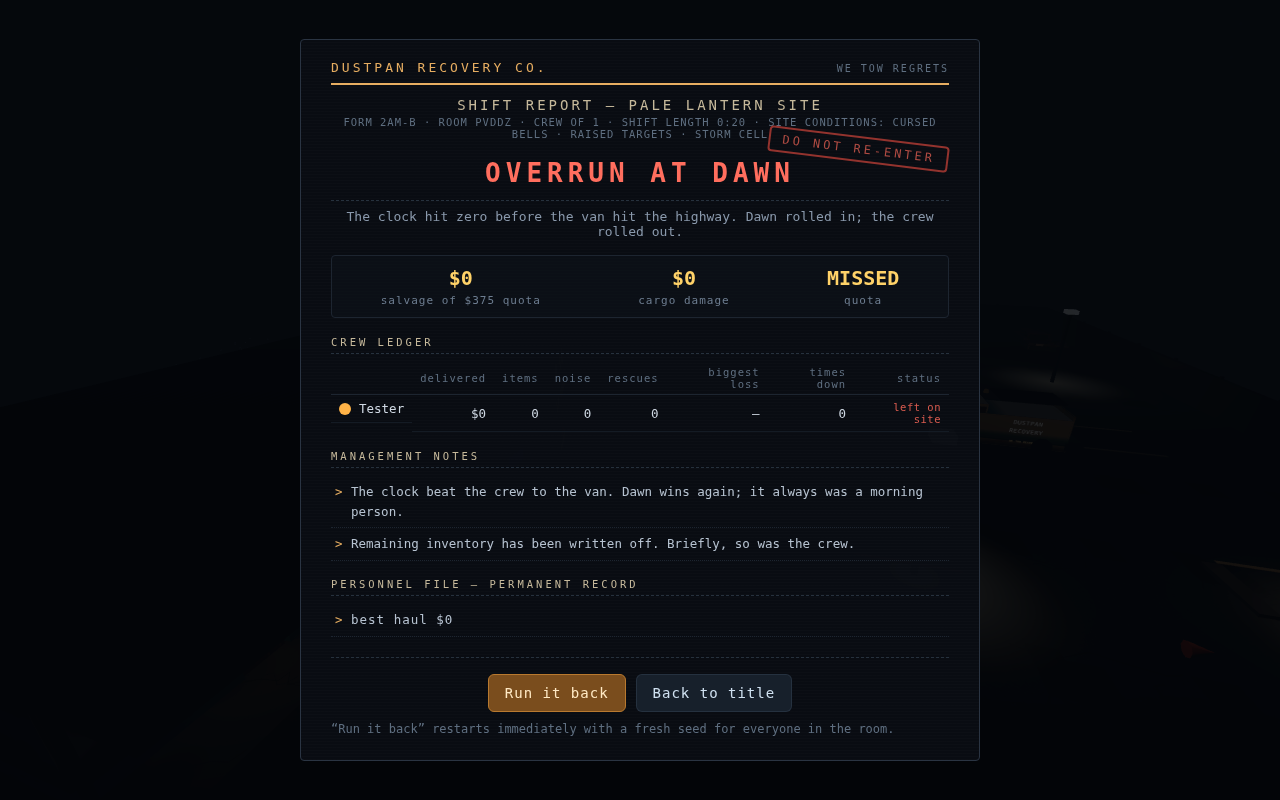
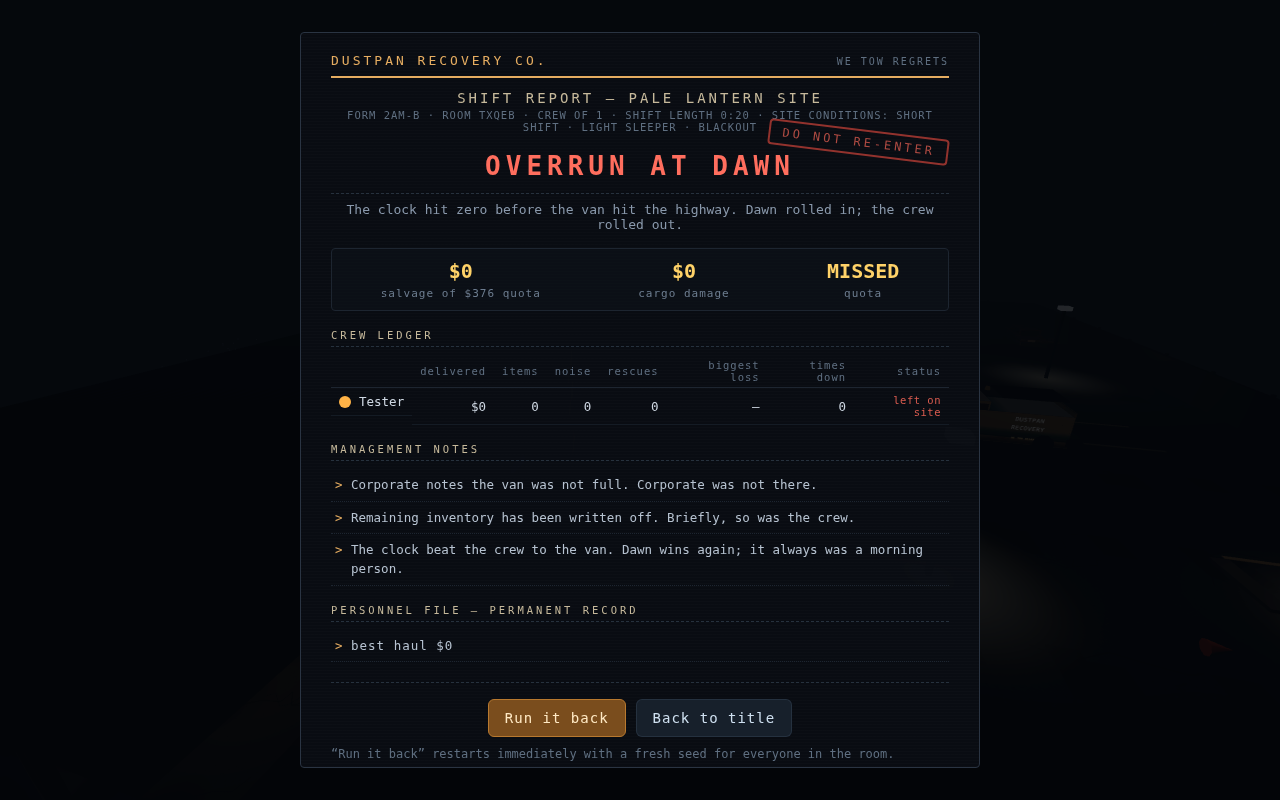
netcode smoothing pass (playtest feedback: stuttery/rubber-bandy): predictor speedFor now mirrors server effectiveSpeed exactly (sprint+stamina+carry caps — the walk-only under-prediction made every sprint snap back), reconcile replaces hard snaps with a decaying render offset (teleports still cut),

diff --git a/apps/web/src/game/predict.ts b/apps/web/src/game/predict.ts
@@ -1,6 +1,6 @@
 // Local prediction for the owning player: same shared step function as the
 // server, with input-sequence reconciliation against authoritative patches.
-import { Body, MoveInput, stepPlayer, carrySpeedFactor, PLAYER, CARRY, ITEM_DEFS } from "@last-stop/shared";
+import { Body, MoveInput, stepPlayer, carrySpeedFactor, PLAYER, CARRY, ITEM_DEFS, clamp } from "@last-stop/shared";
 import type { RoomState } from "@last-stop/shared";
 
 interface RingEntry {
@@ -9,6 +9,11 @@ interface RingEntry {
   z: number;
 }
 
+/** The render offset never grows past this — beyond it the next reconcile
+ *  hard-cuts instead (bounded drift beats invisible teleport). */
+const VIS_MAX = 1.5;
+const clampVis = (v: number): number => clamp(v, -VIS_MAX, VIS_MAX);
+
 export class Predictor {
   body: Body = { x: 0, y: 0, z: 0, vx: 0, vy: 0, vz: 0, grounded: true };
   yaw = Math.PI;
@@ -16,6 +21,9 @@ export class Predictor {
   carrying = "";
   /** m/s of velocity the last step's collision resolve stripped (bump signal). */
   bumpImpulse = 0;
+  /** decaying render offset from reconciliation — see reconcile() */
+  visX = 0;
+  visZ = 0;
   private ring: RingEntry[] = [];
   private seq = 0;
   private colliders: () => import("@last-stop/shared").AABB[];
@@ -33,6 +41,8 @@ export class Predictor {
     this.body.vy = 0;
     this.yaw = yaw;
     this.bumpImpulse = 0;
+    this.visX = 0;
+    this.visZ = 0;
     this.ring = [];
   }
 
@@ -40,11 +50,15 @@ export class Predictor {
     return ++this.seq;
   }
 
-  /** Client-side estimate of the carry penalty (server remains authoritative). */
-  speedFor(state: RoomState, sid: string): number {
+  /** Client-side speed estimate mirroring the server's effectiveSpeed EXACTLY
+   *  (sprint gate + stamina + carry caps included — the old walk-only
+   *  under-prediction made every sprint rubber-band on reconcile). */
+  speedFor(state: RoomState, sid: string, input: { mx: number; mz: number; sprint?: boolean }): number {
     const me = state.players.get(sid);
     if (!me || me.downed || me.dead || me.seat > 0) return 0;
-    let speed = PLAYER.WALK;
+    const moving = Math.hypot(input.mx, input.mz) > 0.1;
+    let wantSprint = input.sprint === true && moving && me.stamina > 0.5;
+    let speed: number = wantSprint ? PLAYER.SPRINT : PLAYER.WALK;
     const carrying = me.carrying;
     if (carrying) {
       const it = state.items.get(carrying);
@@ -53,10 +67,13 @@ export class Predictor {
         if (def) {
           const carriers = (it.h0 ? 1 : 0) + (it.h1 ? 1 : 0) || 1;
           const w = def.weight * (def.twoHandle && state.players.size === 1 ? CARRY.SOLO_HEAVY_FACTOR : 1);
-          speed *= carrySpeedFactor(w / carriers);
+          const per = w / carriers;
+          speed *= carrySpeedFactor(per);
+          if (per >= CARRY.SPRINT_MAX_WEIGHT) wantSprint = false;
         }
       }
     }
+    if (!wantSprint) speed = Math.min(speed, PLAYER.WALK * carrySpeedFactor(0));
     if (me.hp < 30) speed *= 0.85;
     return speed;
   }
@@ -88,6 +105,12 @@ export class Predictor {
       this.body.vz = preVz * keep;
     }
     this.yaw = input.yaw;
+    // drain the reconciliation render offset (~170 ms to eye-invisible)
+    const visKeep = Math.exp(-14 * dt);
+    this.visX *= visKeep;
+    this.visZ *= visKeep;
+    if (Math.abs(this.visX) < 0.004) this.visX = 0;
+    if (Math.abs(this.visZ) < 0.004) this.visZ = 0;
     this.ring.push({ seq: this.seq, x: this.body.x, z: this.body.z });
     if (this.ring.length > 90) this.ring.shift();
   }
@@ -106,17 +129,37 @@ export class Predictor {
       // no history (just joined/restarted): hard sync
       this.body.x = serverX;
       this.body.z = serverZ;
+      this.visX = 0;
+      this.visZ = 0;
       return;
     }
     const ex = serverX - entry.x;
     const ez = serverZ - entry.z;
     const err = Math.hypot(ex, ez);
-    if (err > 0.6) {
-      this.body.x += ex;
-      this.body.z += ez;
-    } else if (err > 0.03) {
-      this.body.x += ex * 0.2;
-      this.body.z += ez * 0.2;
+    if (err > 3) {
+      // teleport-class jump (respawn/escape/hidden): hard cut, no glide
+      this.body.x = serverX;
+      this.body.z = serverZ;
+      this.visX = 0;
+      this.visZ = 0;
+      return;
     }
+    // the sim body corrects partially; the un-applied remainder becomes a
+    // decaying render offset so reconciliation reads as a drift to truth
+    // instead of the old hard snap (the sprint rubber-band)
+    const k = err > 0.6 ? 0.6 : err > 0.03 ? 0.2 : 0;
+    this.body.x += ex * k;
+    this.body.z += ez * k;
+    this.visX = clampVis(this.visX + ex * (1 - k));
+    this.visZ = clampVis(this.visZ + ez * (1 - k));
+  }
+
+  /** Render position: the sim body plus the decaying reconciliation offset. */
+  renderX(): number {
+    return this.body.x + this.visX;
+  }
+
+  renderZ(): number {
+    return this.body.z + this.visZ;
   }
 }

diff --git a/apps/web/src/game/engine.ts b/apps/web/src/game/engine.ts
@@ -258,7 +258,9 @@ export class Engine {
   }
 
   private dynamicColliders(): AABB[] {
-    // static walls + closed doors (mirrors server player colliders)
+    // static walls + closed doors + the van hull (mirrors server
+    // playerColliders — the missing van AABB made the server stop the player
+    // where the client walked straight in, snapping back on every reconcile)
     const closed: AABB[] = [];
     const st = this.net.state;
     if (st) {
@@ -268,6 +270,11 @@ export class Engine {
           if (def) closed.push(doorAabb(def));
         }
       }
+      const c = Math.abs(Math.cos(st.van.yaw));
+      const s = Math.abs(Math.sin(st.van.yaw));
+      const hx = c * VAN.HALF_W + s * VAN.HALF_L;
+      const hz = s * VAN.HALF_W + c * VAN.HALF_L;
+      closed.push({ x0: st.van.x - hx, x1: st.van.x + hx, z0: st.van.z - hz, z1: st.van.z + hz });
     }
     return STATIC_COLLIDERS.concat(closed);
   }
@@ -651,8 +658,8 @@ export class Engine {
   // ------------------------------------------------------------------ targeting
   private scanTarget(st: RoomState, me: PlayerState): void {
     const fwd = { x: Math.sin(this.input.yaw), z: Math.cos(this.input.yaw) };
-    const px = this.predictor.body.x;
-    const pz = this.predictor.body.z;
+    const px = this.predictor.renderX();
+    const pz = this.predictor.renderZ();
     let best: (TargetInfo & { score: number; pos: { x: number; z: number } }) | null = null;
     const consider = (t: TargetInfo, x: number, z: number, range: number, weight = 1) => {
       const dx = x - px;
@@ -849,7 +856,7 @@ export class Engine {
       this.predictor.reset(me.x, me.z, me.yaw);
       this.input.jumpQueued = false;
     } else {
-      const speed = this.predictor.speedFor(st, this.net.sid);
+      const speed = this.predictor.speedFor(st, this.net.sid, fi);
       const seq = this.predictor.nextSeq();
       this.predictor.carrying = me.carrying; // gates the stop-slide (server parity)
       this.predictor.step(dt, fi, speed);
@@ -911,9 +918,10 @@ export class Engine {
         this.scene.add(av.group);
       }
       if (sid === this.net.sid) {
-        // own avatar follows prediction; hidden in first person (body visible edges)
-        const px = this.predictor.body.x;
-        const pz = this.predictor.body.z;
+        // own avatar follows the smoothed render position (body + reconciling
+        // drift); hidden in first person (body visible edges)
+        const px = this.predictor.renderX();
+        const pz = this.predictor.renderZ();
         av.group.position.set(px, p.y, pz);
         av.group.rotation.y = p.yaw;
         av.group.visible = !p.dead && p.seat === 0;
@@ -960,11 +968,11 @@ export class Engine {
         continue;
       }
       if (me && me.carrying === id) {
-        // render the item I'm carrying at MY predicted hold point (no lag)
+        // render the item I'm carrying at MY smoothed hold point (no lag)
         const fx = Math.sin(this.input.yaw);
         const fz = Math.cos(this.input.yaw);
-        showX = this.predictor.body.x + fx * CARRY.HOLD_DIST;
-        showZ = this.predictor.body.z + fz * CARRY.HOLD_DIST;
+        showX = this.predictor.renderX() + fx * CARRY.HOLD_DIST;
+        showZ = this.predictor.renderZ() + fz * CARRY.HOLD_DIST;
         showY = CARRY.HOLD_Y;
       } else {
         showX = view.group.position.x + (it.x - view.group.position.x) * k;
@@ -1172,8 +1180,8 @@ export class Engine {
 
     // Input reads live below the attract/lobby returns: at the title no
     // InputManager exists at all (see the input getter).
-    let cx = this.predictor.body.x;
-    let cz = this.predictor.body.z;
+    let cx = this.predictor.renderX();
+    let cz = this.predictor.renderZ();
     let cy: number = PLAYER.EYE;
     let yaw = this.input.yaw;
     let pitch = this.input.pitch;

diff --git a/e2e/playwright.config.ts b/e2e/playwright.config.ts
@@ -8,10 +8,11 @@ const root = process.cwd();
 export default defineConfig({
   testDir: "tests",
   timeout: 90000,
-  // one retry: these are full-mission browser runs on a box with ambient
-  // load — movement-precision assertions flake on timer starvation, while a
-  // real regression fails every attempt (the camera-180 bug did)
-  retries: 1,
+  // retries for the same reason as the vitest suite (see apps/server/vitest.config.ts):
+  // full-mission browser runs on a box with ambient load — movement/lobby
+  // assertions flake on timer starvation, while a real regression fails
+  // every attempt (the camera-180 bug did)
+  retries: 2,
   workers: 1,
   use: {
     headless: true,

diff --git a/packages/shared/src/constants.ts b/packages/shared/src/constants.ts
@@ -2,7 +2,10 @@
 
 export const TICK_HZ = 30;
 export const TICK_DT = 1 / TICK_HZ;
-export const PATCH_MS = 50; // state broadcast rate (20 Hz)
+// state broadcast rate: match the tick (30 Hz). The old 20 Hz patches were the
+// stutter source — interpolation starves between 50 ms snapshots and the local
+// player's reconcile waits a full 50 ms for fresh truth. Patch bytes are tiny.
+export const PATCH_MS = 33;
 
 // ---- Player movement (kinematic, deliberately gentle) ----
 export const PLAYER = {
